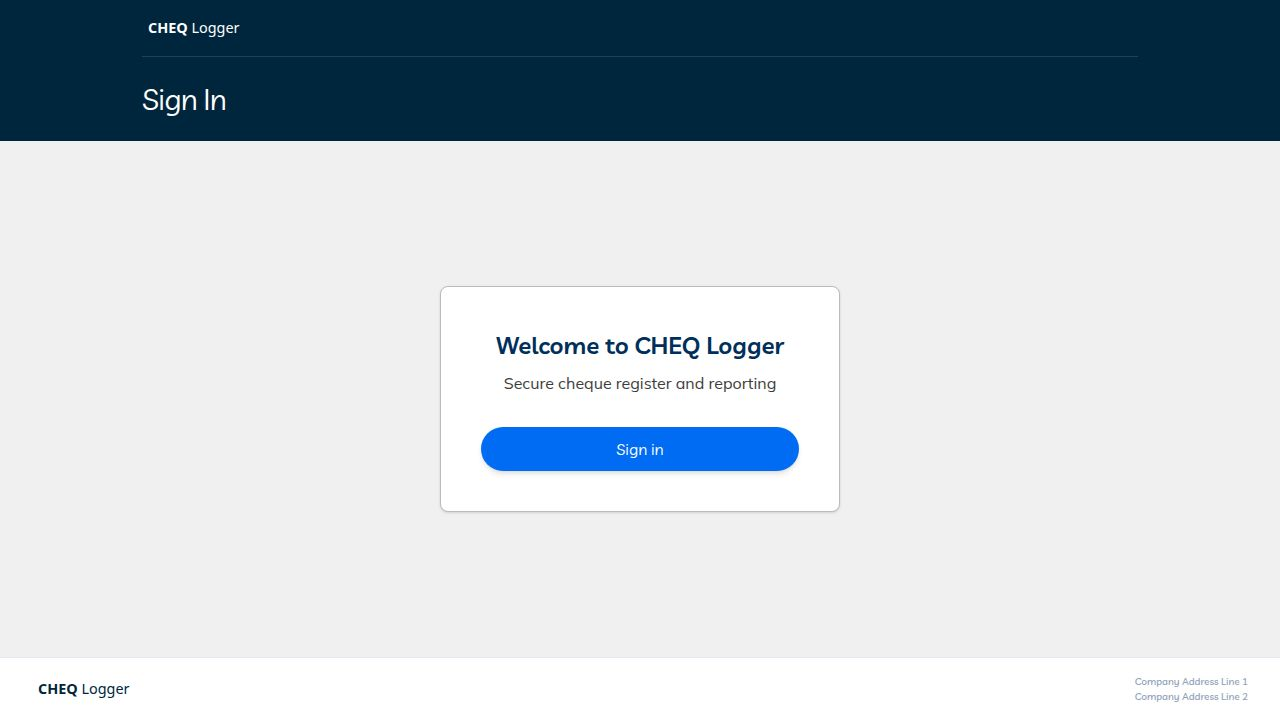
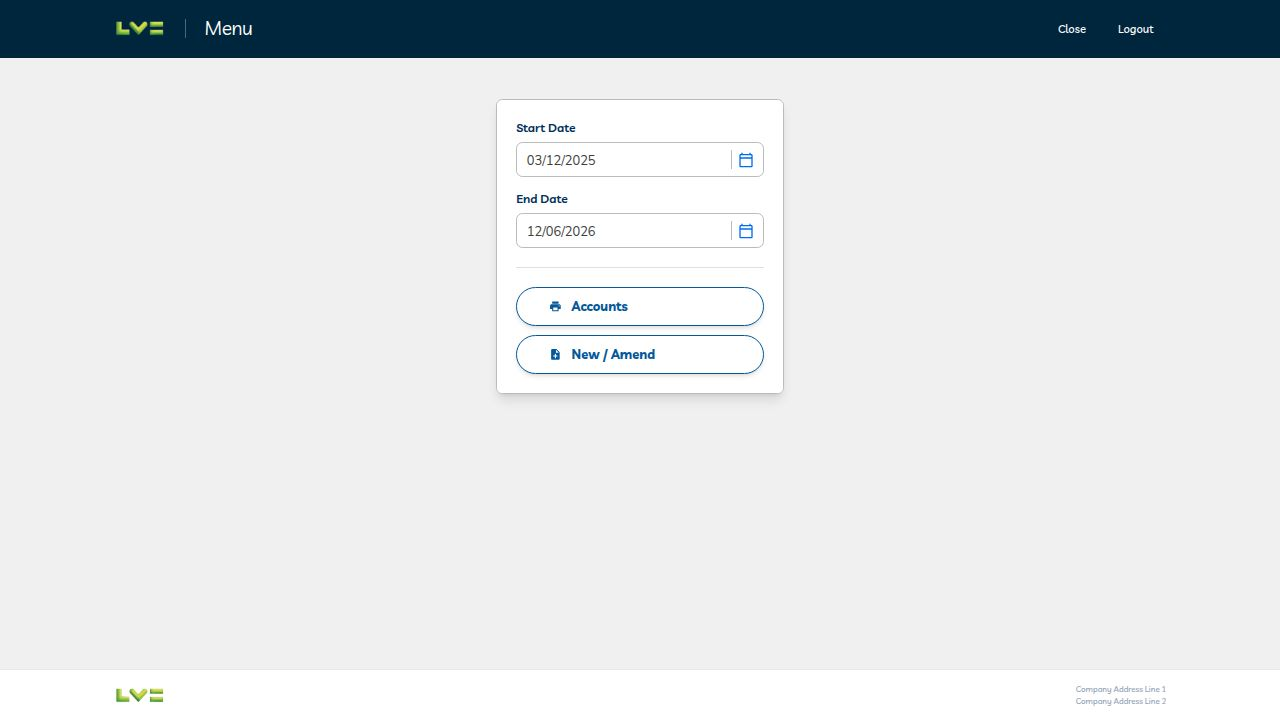
Add an options button to the export format dialog
Adds an "Options >>>" button to the Excel Format Options dialog footer, which closes the dialog and returns to the export modal.

Replit-Commit-Author: Agent
Replit-Commit-Session-Id: 01081b9b-2ad1-4b04-8691-0b9218b57600
Replit-Commit-Checkpoint-Type: full_checkpoint
Replit-Commit-Event-Id: a0e720ad-28d8-411a-9553-6803debb5e52
Replit-Commit-Screenshot-Url: https://storage.googleapis.com/screenshot-production-us-central1/a4f82b34-1f63-47eb-ab11-31a27d43312f/01081b9b-2ad1-4b04-8691-0b9218b57600/nprTI6n
Replit-Helium-Checkpoint-Created: true

diff --git a/artifacts/cheq-logger/src/components/AccountsReportModal.tsx b/artifacts/cheq-logger/src/components/AccountsReportModal.tsx
@@ -86,9 +86,12 @@ function ExcelFormatDialog({
         </div>
 
         {/* LV footer */}
-        <div className="bg-[#f5f7fa] border-t border-[#BBBBBB] px-5 py-3 flex justify-end gap-2">
-          <Button variant="secondary" size="sm" onClick={onCancel}>Cancel</Button>
-          <Button size="sm" onClick={() => onOk(style)}>OK</Button>
+        <div className="bg-[#f5f7fa] border-t border-[#BBBBBB] px-5 py-3 flex items-center justify-between gap-2">
+          <Button variant="secondary" size="sm" onClick={onCancel}>Options &gt;&gt;&gt;</Button>
+          <div className="flex gap-2">
+            <Button variant="secondary" size="sm" onClick={onCancel}>Cancel</Button>
+            <Button size="sm" onClick={() => onOk(style)}>OK</Button>
+          </div>
         </div>
       </DialogContent>
     </Dialog>